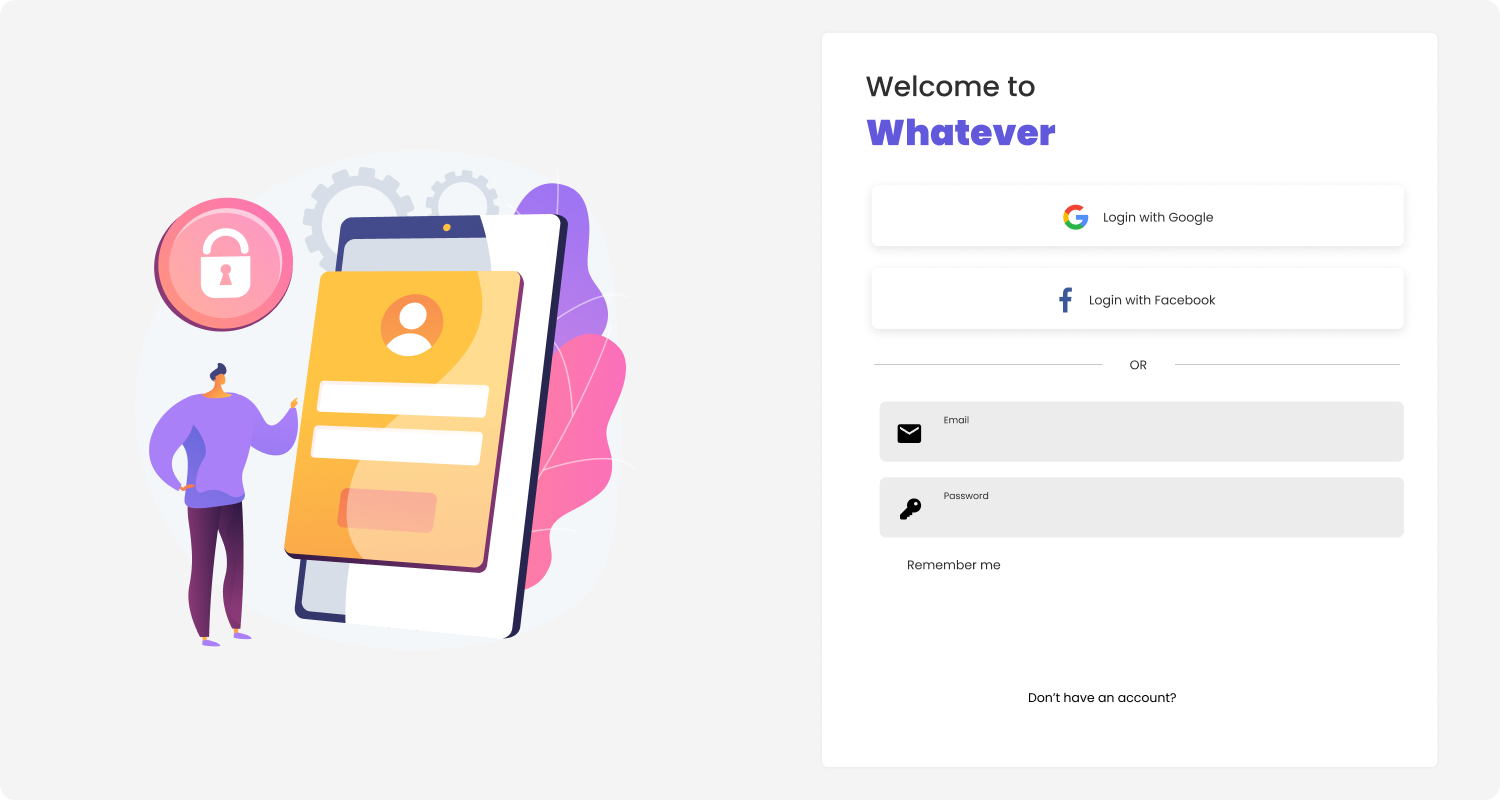
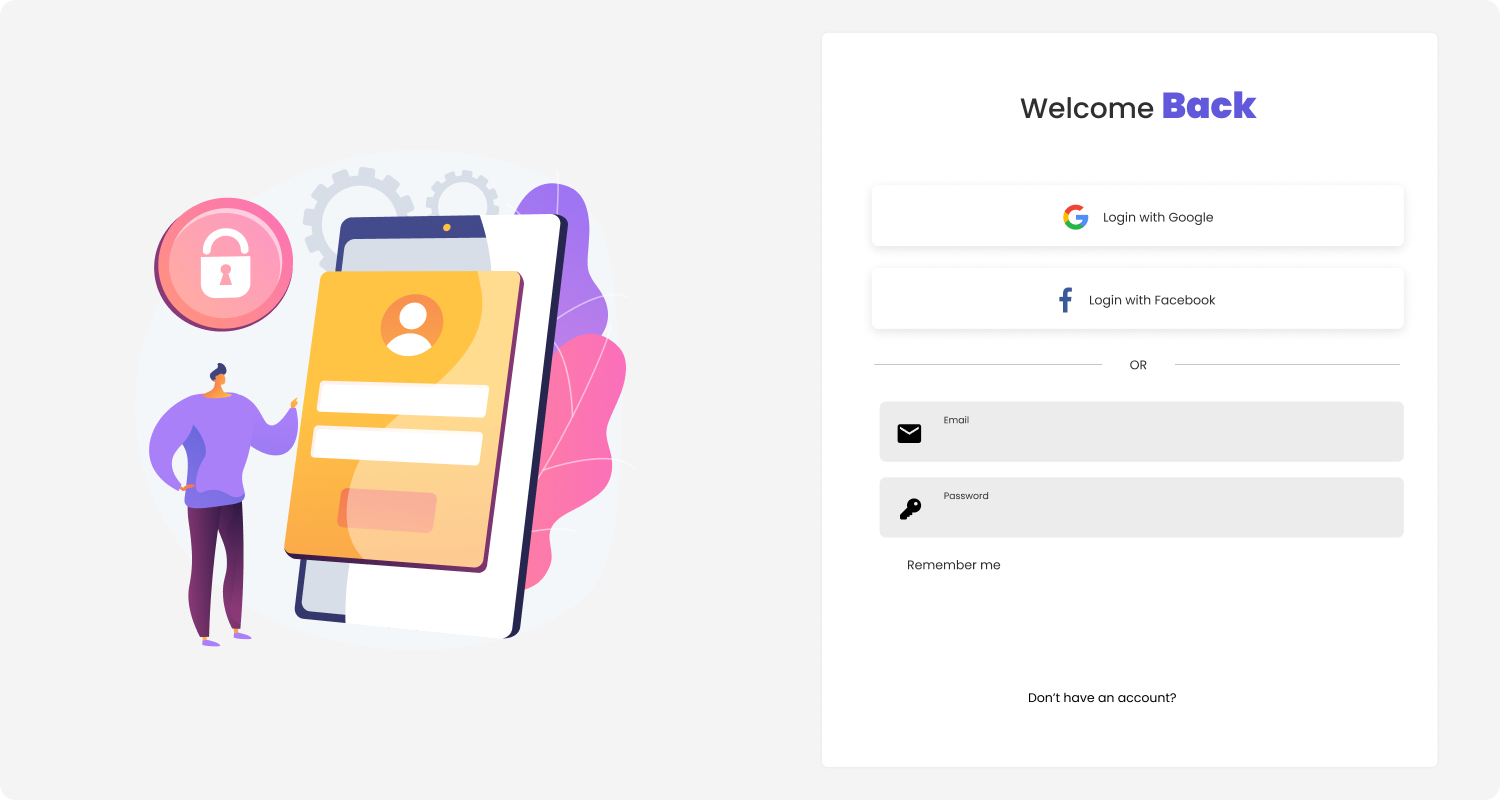
sign up page + linked to sign in

Changed region(s): [[0.5827, 0.0938, 0.8587, 0.1875]]

diff --git a/register.py b/register.py
@@ -19,16 +19,10 @@ root.iconbitmap("icon.ico")
 
 def move(e):
     root.geometry(f'+{e.x_root}+{e.y_root}')
-def login(e):
-    print("Login")
+def register(e):
+    print("register")
 def exit(e):
     root.destroy()
-def remember_onclick(e):
-    check_button_image.configure(file="check_on.png")
-    check_button.bind('<Button>', remember_onclick_1)
-def remember_onclick_1(e):
-    check_button_image.configure(file="check.png")
-    check_button.bind('<Button>', remember_onclick)
 def eye_onclick(e):
     password.config(show='')
     eye_image.configure(file="eye_fill.png")
@@ -37,11 +31,9 @@ def eye_onclick_1(e):
     password.config(show='*')
     eye_image.configure(file="eye_slash.png")
     eye_button.bind('<Button>', eye_onclick)
-def signUp(e):
+def signIn(e):
     root.destroy()
-    os.system("python register.py")
-def forget(e):
-    print("direct to forget password page")
+    os.system("python main.py")
 def add_placeholder(entry, placeholder_text):
     entry.insert(0, placeholder_text)
     entry.config(fg='#676767', font=("Poppins", 12, "bold"))
@@ -59,17 +51,15 @@ def add_placeholder(entry, placeholder_text):
     entry.bind("<FocusIn>", on_focus_in)
     entry.bind("<FocusOut>", on_focus_out)
 def on_leave(e):
-    login_button_image.configure(file="button.png")
+    register_button_image.configure(file="register_button.png")
 def on_enter(e):
-    login_button_image.configure(file="button_hover.png")
+    register_button_image.configure(file="register_button_hover.png")
 
 # Assets
-frame_image = PhotoImage(file="Frame.png")
-login_button_image = PhotoImage(file="button.png")
+frame_image = PhotoImage(file="Create Account Frame.png")
+register_button_image = PhotoImage(file="register_button.png")
 exit_button_image = PhotoImage(file="exit.png")
-check_button_image = PhotoImage(file="check.png")
 register_image = PhotoImage(file="register.png")
-forget_password_image = PhotoImage(file="forget_password.png")
 eye_image = PhotoImage(file="eye_slash.png")
 
 #Main Frame
@@ -82,41 +72,36 @@ exit_button = Label(root, image=exit_button_image, bg="#F4F4F4", cursor="hand2")
 #exit_button.place(x=1454, y=17)
 exit_button.bind('<Button>', exit)
 
+#Username Entry
+username = Entry(root, bg="#ECECEC", fg="#676767", font="Poppins 12 bold", width=46, border=0)
+username.place(x=944.06, y=399)
+add_placeholder(username, "Enter your username")
+
 #Email Entry
 email = Entry(root, bg="#ECECEC", fg="#676767", font="Poppins 12 bold", width=46, border=0)
-email.place(x=943.75, y=430.47)
-add_placeholder(email, "example@gmail.com")
+email.place(x=944.06, y=475.91)
+add_placeholder(email, "Enter your email")
 
 #Password Entry
 password = Entry(root, bg="#ECECEC", fg="#676767", font="Poppins 12", width=46, border=0, show="*")
-password.place(x=943.75, y=504.94)
-add_placeholder(password, "password")
+password.place(x=944, y=553)
+add_placeholder(password, "Create your password")
 
 #Eye button
 eye_button = Label(root, image=eye_image, bg="#ECECEC", cursor="hand2")
-eye_button.place(x=1370.31, y=502.34)
+eye_button.place(x=1370.63, y=549)
 eye_button.bind('<Button>', eye_onclick)
 
-#Remember me button
-check_button = Label(root, image=check_button_image, bg="white", cursor="hand2")
-check_button.place(x=881.25, y=552.81)
-check_button.bind('<Button>', remember_onclick)
-
-#Login Button
-login_button = Label(root, image=login_button_image, bg="white", cursor="hand2")
-login_button.place(x=879.69, y=592.19)
-login_button.bind('<Enter>', on_enter)
-login_button.bind('<Leave>', on_leave)
-login_button.bind('<Button>', login)
+#register Button
+register_button = Label(root, image=register_button_image, bg="white", cursor="hand2")
+register_button.place(x=880, y=606)
+register_button.bind('<Enter>', on_enter)
+register_button.bind('<Leave>', on_leave)
+register_button.bind('<Button>', register)
 
 #register button
-register = Label(root, image=register_image, bg="white", cursor="hand2")
-register.place(x=1180, y=689)
-register.bind('<Button>', signUp)
-
-#forget_password button
-forget_password = Label(root, image=forget_password_image, bg="white", cursor="hand2")
-forget_password.place(x=1289.84, y=556.25)
-forget_password.bind('<Button>', forget)
+login_text = Label(root, image=register_image, bg="white", cursor="hand2")
+login_text.place(x=1210, y=694)
+login_text.bind('<Button>', signIn)
 
 root.mainloop()
